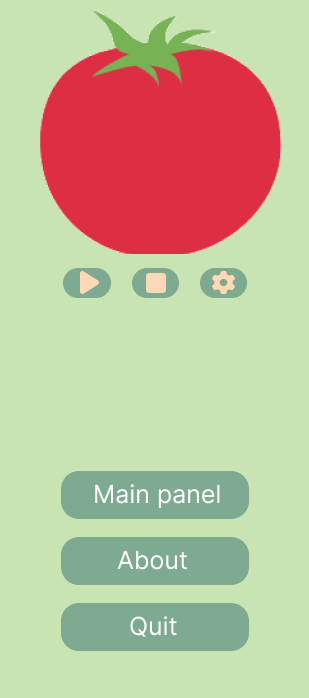
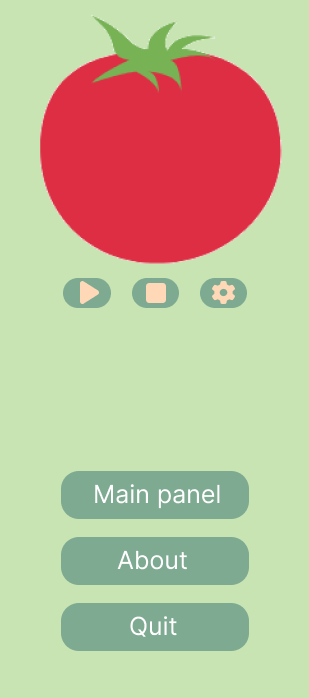
full list functions and rearrange of right_frame

diff --git a/app/main.py b/app/main.py
@@ -64,7 +64,7 @@ class MainPanel(tk.Tk):
 
             frame.tkraise()
 
-            #self.frames['right_frame'].monitor_button_state()
+            # self.frames['right_frame'].monitor_button_state()
 
             if self.current_left_frame:
                 self.current_left_frame.forget()
@@ -200,7 +200,7 @@ class RightFrame(tk.Frame):
 
         self.timer = tk.Label(self, text="--:--", font=('Courier', 28, "normal"), fg="#FFD9B7", background="#dd2e44",
                               bd=0)
-        self.timer.place(x=80, y=130)
+        self.timer.place(x=80, y=138)
 
         self.tick = tk.Label(self, text='', fg="#7EAA92", bg="#dd2e44", font=('Courier', 10, "bold"))
         self.tick.place(x=95, y=200)
@@ -212,14 +212,14 @@ class RightFrame(tk.Frame):
 
         self.start_button = tk.Button(self, command=lambda: self.start_timer(),
                                       image=self.start_button_bg, bd=0, background=BACKGROUND)
-        self.start_button.place(x=41, y=267)
+        self.start_button.place(x=41, y=278)
         self.stop_button = tk.Button(self, command=self.reset_timer, image=self.stop_button_bg, bd=0,
                                      background=BACKGROUND)
-        self.stop_button.place(x=110, y=267)
+        self.stop_button.place(x=110, y=278)
 
         self.options_button = tk.Button(self, command=self.open_settings, image=self.options_button_bg, bd=0,
                                         background=BACKGROUND)
-        self.options_button.place(x=178, y=267)
+        self.options_button.place(x=178, y=278)
 
         self.timer_state_idle_bg = PhotoImage(file="./components/graphical_components/pomodoro/start_the_timer.png")
         self.timer_state_learning_time_bg = PhotoImage(
@@ -249,7 +249,7 @@ class RightFrame(tk.Frame):
                                      highlightthickness=0, highlightbackground='#cde3b6')
         self.quit_button.place(x=38, y=602)
 
-        #self.monitor_button_state()
+        # self.monitor_button_state()
 
     def count_down(self, count):
         global num_of_ticks
@@ -404,10 +404,10 @@ class WordFrame(tk.Frame):
         file_path = os.path.join(data_directory, f"{session_name}.json")
         if os.path.exists(file_path):
             messagebox.showinfo("Session name error", "Session with this name exists. Chose another name.")
-            self.safe_as_label.delete(0, 'end')
         else:
             save_data(self.words, self.translations, session_name)
-            self.safe_as_label.delete(0, 'end')
+
+        self.safe_as_label.delete(0, 'end')
 
     def append_arrays(self):
         x = self.word_entry.get()
@@ -423,6 +423,7 @@ class WordFrame(tk.Frame):
 class ExpressionSection(tk.Frame):
     def __init__(self, master=None):
         super().__init__(master)
+        self.words = None
         self.master = master
         self.configure(width=696, height=698)
         self.background_image = PhotoImage(file=
@@ -441,11 +442,12 @@ class ExpressionSection(tk.Frame):
         self.confirm_button_bg = PhotoImage(file="./components/graphical_components/material_panel/confirm_button.png")
 
         self.expression_entry = tk.Entry(self, width=32, background="#7eaa92", fg="white", bd=0, justify="center",
-                                   font=("Arial", 16))
+                                         font=("Arial", 16))
+
         self.expression_entry.place(x=210, y=164)
 
         self.definition_entry = tk.Entry(self, width=32, background="#7eaa92", fg="white", bd=0, justify="center",
-                                          font=("Arial", 16))
+                                         font=("Arial", 16))
         self.definition_entry.place(x=210, y=264)
 
         self.next_one = tk.Button(self, command=self.append_arrays, image=self.next_one_button_bg, bd=0,
@@ -528,7 +530,7 @@ class FullWordList(tk.Frame):
                 language_name = languages[language_index][:-4].capitalize()
                 button = tk.Button(self, background="#7EAA92", fg="#FFD9B7", bd=0, width=button_width,
                                    height=button_height, text=language_name, font=('Inter', 12, "bold"),
-                                   command=lambda lang=language_name: pass_session_data("languages", lang))
+                                   command=lambda lang=language_name: open_word_flashcard(lang))
 
                 button.place(x=x_pos[column], y=y_pos[row])
                 language_index += 1

diff --git a/app/components/words_learning.py b/app/components/words_learning.py
@@ -61,28 +61,22 @@ class WordFlashcard(tk.Toplevel):
             self.canvas.itemconfig(self.card_language, text=self.lang_name, fill="#FFD9B7")
             self.canvas.itemconfig(self.card_word, text=self.current_card[0], fill="white")
         else:
-            # Jeśli słownik jest pusty, to nie ma kart do wyświetlenia.
+            # If dictionary is empty, there's no cards to display.
             self.current_card = None
             self.canvas.itemconfig(self.card_language, text="No cards remaining", fill="#FFD9B7")
             self.canvas.itemconfig(self.card_word, text="", fill="white")
 
         self.canvas.itemconfig(self.canvas_bg, image=self.flashcard_front_bg)
 
-    # def flip_card(self):
-    #     if self.current_card:
-    #         self.canvas.itemconfig(self.canvas_bg, image=self.flashcard_back_bg)
-    #         #self.canvas.itemconfig(self.canvas,)
-    #         self.canvas.itemconfig(self.card_word, text=self.current_card[1], fill="white")
-    #         self.canvas.itemconfig(self.card_word, text=self.dict[self.current_card[0]], fill="white")
     def flip_card(self):
         if self.current_card:
             if self.canvas.itemcget(self.canvas_bg, "image") == str(self.flashcard_front_bg):
-                # Jeśli karta jest z przodu, to obróć na tył
+                # If the card is faced upwards, flip to the backside
                 self.canvas.itemconfig(self.canvas_bg, image=self.flashcard_back_bg)
                 self.canvas.itemconfig(self.card_word, text=self.current_card[1], fill="white")
                 self.canvas.itemconfig(self.card_language, text="English", fill="black")
             else:
-                # Jeśli karta jest z tyłu, to obróć na przód
+                # If the card is faced downwards, flip to the front-side
                 self.canvas.itemconfig(self.canvas_bg, image=self.flashcard_front_bg)
                 self.canvas.itemconfig(self.card_word, text=self.current_card[0], fill="white")
                 self.canvas.itemconfig(self.card_language, text=self.lang_name, fill="#FFD9B7")
